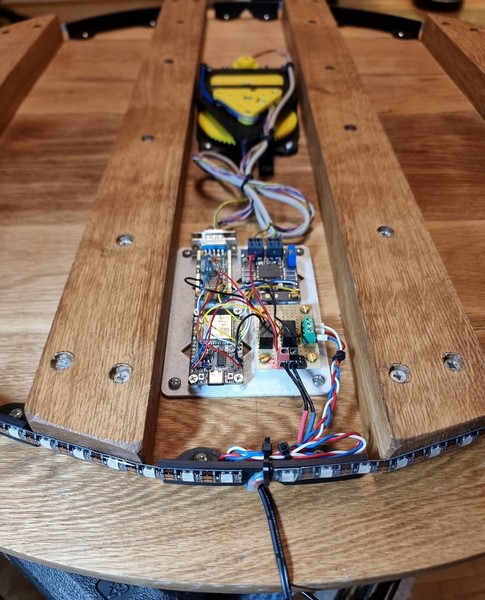
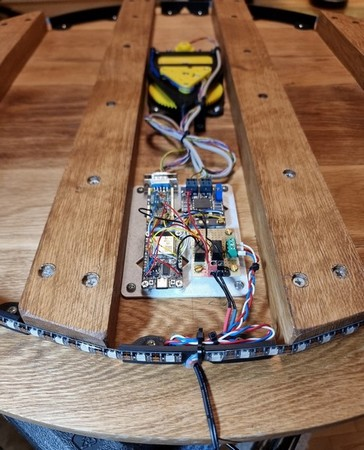
resized

diff --git a/README.md b/README.md
@@ -64,7 +64,7 @@ Such a project can't be battery powered. A standard 24 V, 1 A, wall-plug supply 
 
 
 ## Everything mounted and tested
-![.](/Photo/mechanism back.jpg)
+![.](/Photo/mechanism_back.jpg)
 ![.](/Photo/clock_preview_back.jpg)
 
 ### And final step is HA integration
